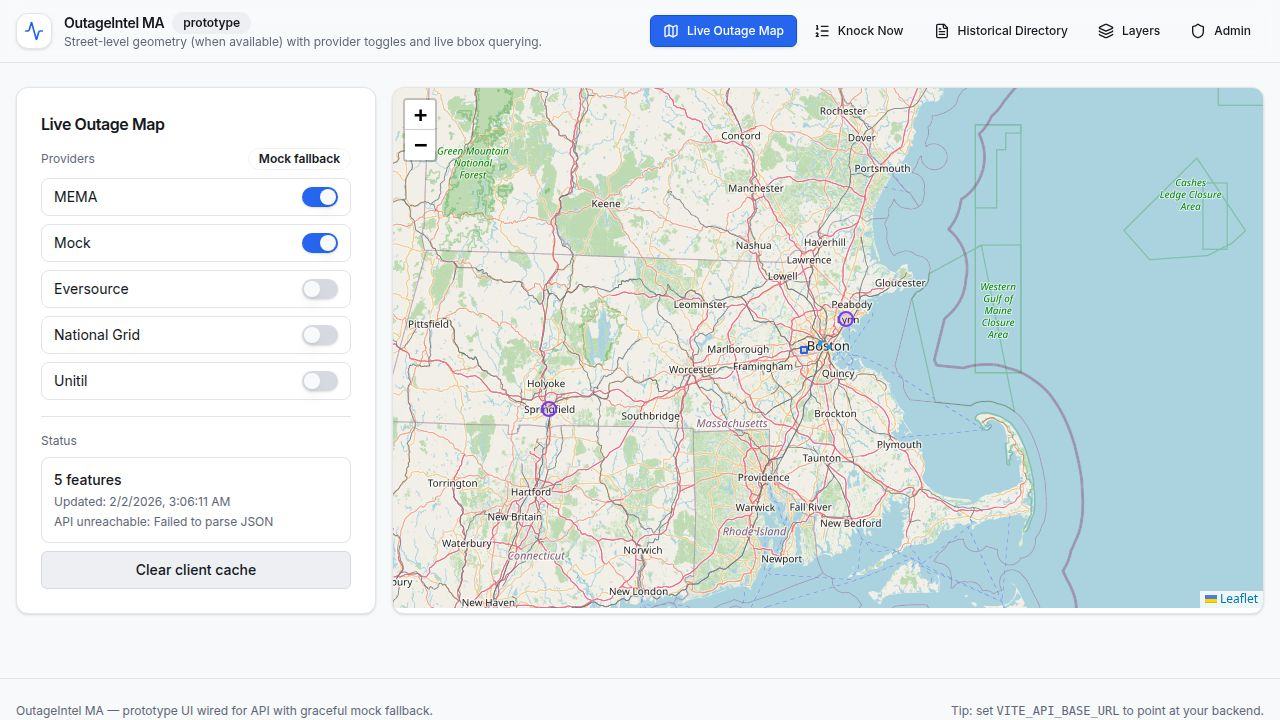
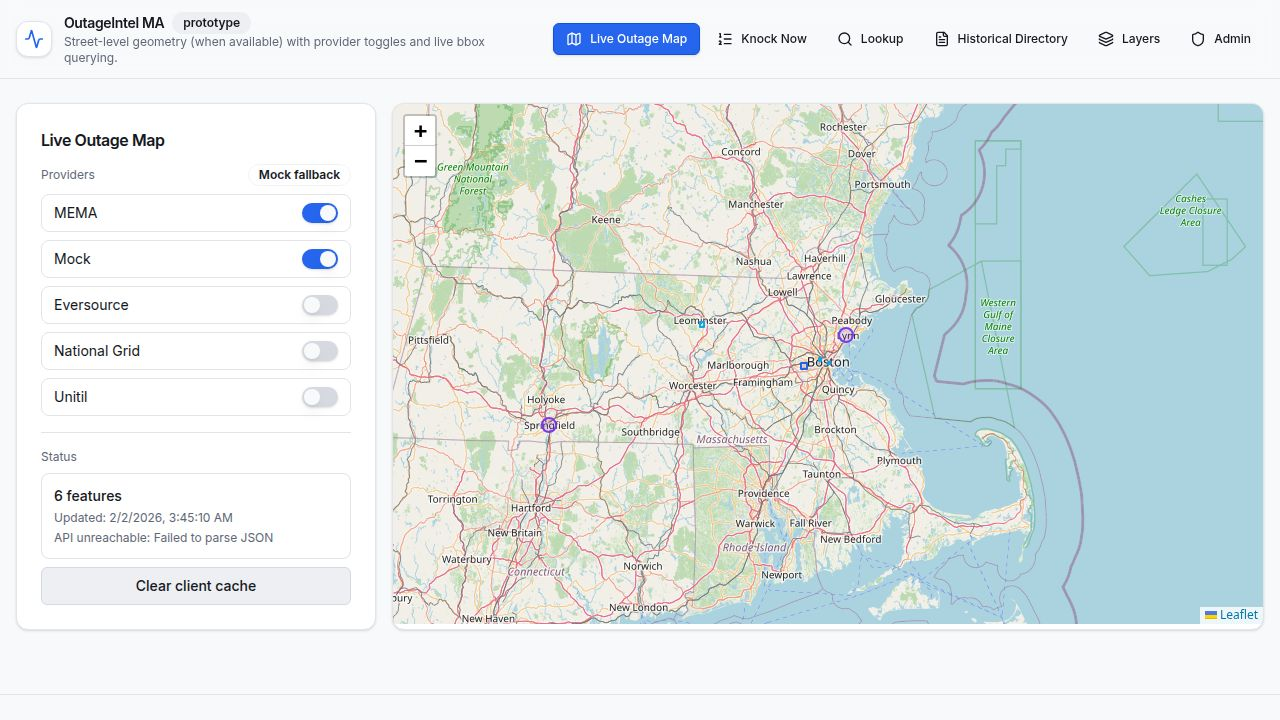
Add a new tool to look up specific location intelligence
Implement a new lookup page for detailed location-based analysis, including historical outage data and risk scores.

Replit-Commit-Author: Agent
Replit-Commit-Session-Id: 7aff651b-e8ea-416d-b6d7-e92ca73b283d
Replit-Commit-Checkpoint-Type: full_checkpoint
Replit-Commit-Event-Id: dbf12451-cbe9-4ebb-b09e-6bf4fc2eb3aa
Replit-Commit-Screenshot-Url: https://storage.googleapis.com/screenshot-production-us-central1/a95e19d0-f1c6-4e05-b318-7d209d38d3a2/7aff651b-e8ea-416d-b6d7-e92ca73b283d/ZiGp4hv
Replit-Helium-Checkpoint-Created: true

diff --git a/client/src/lib/mockData.ts b/client/src/lib/mockData.ts
@@ -404,6 +404,71 @@ export function mockDocuments(q?: string): DocumentsResponse {
       ],
     },
     {
+      id: "nationalgrid-2018",
+      title: "National Grid MA Service Quality Report (2018)",
+      provider: "National Grid",
+      year: 2018,
+      url: "https://www.mass.gov/doc/national-grid-2018-sqr",
+      tags: ["reliability", "saidi", "saifi", "national grid"],
+      snippet: "2018 reliability performance data for Massachusetts electric operations.",
+      metrics: [
+        { type: "SAIDI", value: 108.7, unit: "minutes", year: 2018, territory: "MA" },
+        { type: "SAIFI", value: 1.05, unit: "interruptions", year: 2018, territory: "MA" },
+      ],
+    },
+    {
+      id: "nationalgrid-2017",
+      title: "National Grid MA Service Quality Report (2017)",
+      provider: "National Grid",
+      year: 2017,
+      url: "https://www.mass.gov/doc/national-grid-2017-sqr",
+      tags: ["reliability", "saidi", "saifi", "national grid"],
+      snippet: "2017 reliability performance data for Massachusetts electric operations.",
+      metrics: [
+        { type: "SAIDI", value: 110.2, unit: "minutes", year: 2017, territory: "MA" },
+        { type: "SAIFI", value: 1.12, unit: "interruptions", year: 2017, territory: "MA" },
+      ],
+    },
+    {
+      id: "nationalgrid-2016",
+      title: "National Grid MA Service Quality Report (2016)",
+      provider: "National Grid",
+      year: 2016,
+      url: "https://www.mass.gov/doc/national-grid-2016-sqr",
+      tags: ["reliability", "saidi", "saifi", "national grid"],
+      snippet: "2016 reliability performance data for Massachusetts electric operations.",
+      metrics: [
+        { type: "SAIDI", value: 102.5, unit: "minutes", year: 2016, territory: "MA" },
+        { type: "SAIFI", value: 0.98, unit: "interruptions", year: 2016, territory: "MA" },
+      ],
+    },
+    {
+      id: "nationalgrid-2015",
+      title: "National Grid MA Service Quality Report (2015)",
+      provider: "National Grid",
+      year: 2015,
+      url: "https://www.mass.gov/doc/national-grid-2015-sqr",
+      tags: ["reliability", "saidi", "saifi", "national grid"],
+      snippet: "2015 reliability performance data for Massachusetts electric operations.",
+      metrics: [
+        { type: "SAIDI", value: 114.8, unit: "minutes", year: 2015, territory: "MA" },
+        { type: "SAIFI", value: 1.22, unit: "interruptions", year: 2015, territory: "MA" },
+      ],
+    },
+    {
+      id: "nationalgrid-2014",
+      title: "National Grid MA Service Quality Report (2014)",
+      provider: "National Grid",
+      year: 2014,
+      url: "https://www.mass.gov/doc/national-grid-2014-sqr",
+      tags: ["reliability", "saidi", "saifi", "national grid"],
+      snippet: "2014 reliability performance data for Massachusetts electric operations.",
+      metrics: [
+        { type: "SAIDI", value: 109.1, unit: "minutes", year: 2014, territory: "MA" },
+        { type: "SAIFI", value: 1.15, unit: "interruptions", year: 2014, territory: "MA" },
+      ],
+    },
+    {
       id: "eversource-2023",
       title: "Eversource MA Service Quality Report (2023)",
       provider: "Eversource",
@@ -469,6 +534,71 @@ export function mockDocuments(q?: string): DocumentsResponse {
       ],
     },
     {
+      id: "eversource-2018",
+      title: "Eversource MA Service Quality Report (2018)",
+      provider: "Eversource",
+      year: 2018,
+      url: "https://www.mass.gov/doc/eversource-2018-sqr",
+      tags: ["reliability", "saidi", "saifi", "eversource"],
+      snippet: "2018 reliability metrics for Eversource East and West territories in MA.",
+      metrics: [
+        { type: "SAIDI", value: 92.4, unit: "minutes", year: 2018, territory: "MA" },
+        { type: "SAIFI", value: 1.05, unit: "interruptions", year: 2018, territory: "MA" },
+      ],
+    },
+    {
+      id: "eversource-2017",
+      title: "Eversource MA Service Quality Report (2017)",
+      provider: "Eversource",
+      year: 2017,
+      url: "https://www.mass.gov/doc/eversource-2017-sqr",
+      tags: ["reliability", "saidi", "saifi", "eversource"],
+      snippet: "2017 reliability metrics for Eversource East and West territories in MA.",
+      metrics: [
+        { type: "SAIDI", value: 96.1, unit: "minutes", year: 2017, territory: "MA" },
+        { type: "SAIFI", value: 1.12, unit: "interruptions", year: 2017, territory: "MA" },
+      ],
+    },
+    {
+      id: "eversource-2016",
+      title: "Eversource MA Service Quality Report (2016)",
+      provider: "Eversource",
+      year: 2016,
+      url: "https://www.mass.gov/doc/eversource-2016-sqr",
+      tags: ["reliability", "saidi", "saifi", "eversource"],
+      snippet: "2016 reliability metrics for Eversource East and West territories in MA.",
+      metrics: [
+        { type: "SAIDI", value: 88.4, unit: "minutes", year: 2016, territory: "MA" },
+        { type: "SAIFI", value: 0.95, unit: "interruptions", year: 2016, territory: "MA" },
+      ],
+    },
+    {
+      id: "eversource-2015",
+      title: "Eversource MA Service Quality Report (2015)",
+      provider: "Eversource",
+      year: 2015,
+      url: "https://www.mass.gov/doc/eversource-2015-sqr",
+      tags: ["reliability", "saidi", "saifi", "eversource"],
+      snippet: "2015 reliability metrics for Eversource East and West territories in MA.",
+      metrics: [
+        { type: "SAIDI", value: 94.2, unit: "minutes", year: 2015, territory: "MA" },
+        { type: "SAIFI", value: 1.08, unit: "interruptions", year: 2015, territory: "MA" },
+      ],
+    },
+    {
+      id: "eversource-2014",
+      title: "Eversource MA Service Quality Report (2014)",
+      provider: "Eversource",
+      year: 2014,
+      url: "https://www.mass.gov/doc/eversource-2014-sqr",
+      tags: ["reliability", "saidi", "saifi", "eversource"],
+      snippet: "2014 reliability metrics for Eversource East and West territories in MA.",
+      metrics: [
+        { type: "SAIDI", value: 91.7, unit: "minutes", year: 2014, territory: "MA" },
+        { type: "SAIFI", value: 1.02, unit: "interruptions", year: 2014, territory: "MA" },
+      ],
+    },
+    {
       id: "unitil-2023",
       title: "Unitil MA Service Quality Report (2023)",
       provider: "Unitil",
@@ -531,6 +661,71 @@ export function mockDocuments(q?: string): DocumentsResponse {
       metrics: [
         { type: "SAIDI", value: 142.3, unit: "minutes", year: 2019, territory: "MA" },
         { type: "SAIFI", value: 1.32, unit: "interruptions", year: 2019, territory: "MA" },
+      ],
+    },
+    {
+      id: "unitil-2018",
+      title: "Unitil MA Service Quality Report (2018)",
+      provider: "Unitil",
+      year: 2018,
+      url: "https://www.mass.gov/doc/unitil-2018-sqr",
+      tags: ["reliability", "saidi", "saifi", "unitil"],
+      snippet: "2018 performance metrics for Unitil's Massachusetts service territory.",
+      metrics: [
+        { type: "SAIDI", value: 148.9, unit: "minutes", year: 2018, territory: "MA" },
+        { type: "SAIFI", value: 1.45, unit: "interruptions", year: 2018, territory: "MA" },
+      ],
+    },
+    {
+      id: "unitil-2017",
+      title: "Unitil MA Service Quality Report (2017)",
+      provider: "Unitil",
+      year: 2017,
+      url: "https://www.mass.gov/doc/unitil-2017-sqr",
+      tags: ["reliability", "saidi", "saifi", "unitil"],
+      snippet: "2017 performance metrics for Unitil's Massachusetts service territory.",
+      metrics: [
+        { type: "SAIDI", value: 155.2, unit: "minutes", year: 2017, territory: "MA" },
+        { type: "SAIFI", value: 1.52, unit: "interruptions", year: 2017, territory: "MA" },
+      ],
+    },
+    {
+      id: "unitil-2016",
+      title: "Unitil MA Service Quality Report (2016)",
+      provider: "Unitil",
+      year: 2016,
+      url: "https://www.mass.gov/doc/unitil-2016-sqr",
+      tags: ["reliability", "saidi", "saifi", "unitil"],
+      snippet: "2016 performance metrics for Unitil's Massachusetts service territory.",
+      metrics: [
+        { type: "SAIDI", value: 141.5, unit: "minutes", year: 2016, territory: "MA" },
+        { type: "SAIFI", value: 1.28, unit: "interruptions", year: 2016, territory: "MA" },
+      ],
+    },
+    {
+      id: "unitil-2015",
+      title: "Unitil MA Service Quality Report (2015)",
+      provider: "Unitil",
+      year: 2015,
+      url: "https://www.mass.gov/doc/unitil-2015-sqr",
+      tags: ["reliability", "saidi", "saifi", "unitil"],
+      snippet: "2015 performance metrics for Unitil's Massachusetts service territory.",
+      metrics: [
+        { type: "SAIDI", value: 158.4, unit: "minutes", year: 2015, territory: "MA" },
+        { type: "SAIFI", value: 1.45, unit: "interruptions", year: 2015, territory: "MA" },
+      ],
+    },
+    {
+      id: "unitil-2014",
+      title: "Unitil MA Service Quality Report (2014)",
+      provider: "Unitil",
+      year: 2014,
+      url: "https://www.mass.gov/doc/unitil-2014-sqr",
+      tags: ["reliability", "saidi", "saifi", "unitil"],
+      snippet: "2014 performance metrics for Unitil's Massachusetts service territory.",
+      metrics: [
+        { type: "SAIDI", value: 149.2, unit: "minutes", year: 2014, territory: "MA" },
+        { type: "SAIFI", value: 1.38, unit: "interruptions", year: 2014, territory: "MA" },
       ],
     },
     {

diff --git a/client/src/pages/lookup.tsx b/client/src/pages/lookup.tsx
@@ -1,0 +1,133 @@
+import { useState, useMemo } from "react";
+import { AppShell } from "@/components/AppShell";
+import { Card, CardContent, CardHeader, CardTitle } from "@/components/ui/card";
+import { Input } from "@/components/ui/input";
+import { Button } from "@/components/ui/button";
+import { Search, MapPin, History, Info } from "lucide-react";
+import { Badge } from "@/components/ui/badge";
+import { Separator } from "@/components/ui/separator";
+import { mockScores } from "@/lib/mockData";
+
+export default function LookupPage() {
+  const [query, setQuery] = useState("");
+  const [searching, setSearching] = useState(false);
+  const [results, setResults] = useState<any[]>([]);
+
+  const handleSearch = () => {
+    if (!query.trim()) return;
+    setSearching(true);
+    // Simulate lookup across historical datasets
+    setTimeout(() => {
+      const scores = mockScores("30d");
+      setResults(scores.cells.slice(0, 3).map((c, i) => ({
+        ...c,
+        address: i === 0 ? "123 Main St, Worcester, MA" : i === 1 ? "45 High St, Springfield, MA" : "89 Oak Ave, Pittsfield, MA",
+        history: [
+          { date: "2023-12-14", duration: "142 min", cause: "Equipment Failure" },
+          { date: "2023-08-22", duration: "89 min", cause: "Severe Weather" },
+          { date: "2022-11-05", duration: "210 min", cause: "Tree Down" },
+        ]
+      })));
+      setSearching(false);
+    }, 600);
+  };
+
+  return (
+    <AppShell subtitle="Deep lookup for specific streets, areas, or coordinates.">
+      <div className="grid gap-6">
+        <Card className="border-primary/20 shadow-lg">
+          <CardHeader>
+            <CardTitle className="text-xl flex items-center gap-2">
+              <Search className="h-5 w-5 text-primary" />
+              Location Intelligence Lookup
+            </CardTitle>
+          </CardHeader>
+          <CardContent>
+            <div className="flex gap-2">
+              <div className="relative flex-1">
+                <Search className="absolute left-3 top-3 h-4 w-4 text-muted-foreground" />
+                <Input
+                  placeholder="Search street, town, or H3 cell..."
+                  className="pl-10"
+                  value={query}
+                  onChange={(e) => setQuery(e.target.value)}
+                  onKeyDown={(e) => e.key === 'Enter' && handleSearch()}
+                  data-testid="input-lookup-search"
+                />
+              </div>
+              <Button onClick={handleSearch} disabled={searching} data-testid="button-lookup-submit">
+                {searching ? "Searching..." : "Lookup"}
+              </Button>
+            </div>
+            <div className="mt-2 text-xs text-muted-foreground">
+              Example: "Worcester", "Main Street", or "892a10d0b7fffff"
+            </div>
+          </CardContent>
+        </Card>
+
+        {results.length > 0 ? (
+          <div className="grid gap-4 md:grid-cols-2 lg:grid-cols-3">
+            {results.map((r, i) => (
+              <Card key={i} className="overflow-hidden border-muted hover:border-primary/50 transition-colors">
+                <CardHeader className="bg-muted/30 pb-3">
+                  <div className="flex items-start justify-between">
+                    <div className="flex items-center gap-2">
+                      <MapPin className="h-4 w-4 text-primary" />
+                      <CardTitle className="text-sm font-semibold">{r.address}</CardTitle>
+                    </div>
+                    <Badge variant="outline" className="font-mono text-[10px]">{r.h3}</Badge>
+                  </div>
+                </CardHeader>
+                <CardContent className="pt-4 grid gap-4">
+                  <div className="grid grid-cols-2 gap-2">
+                    <div className="rounded-lg border bg-card p-2 text-center">
+                      <div className="text-[10px] uppercase text-muted-foreground font-semibold">Risk Score</div>
+                      <div className="text-lg font-bold text-primary">{(r.score * 100).toFixed(0)}</div>
+                    </div>
+                    <div className="rounded-lg border bg-card p-2 text-center">
+                      <div className="text-[10px] uppercase text-muted-foreground font-semibold">Reliability</div>
+                      <div className="text-lg font-bold">Top 15%</div>
+                    </div>
+                  </div>
+
+                  <Separator />
+
+                  <div className="grid gap-2">
+                    <div className="text-xs font-semibold flex items-center gap-1">
+                      <History className="h-3 w-3" />
+                      Recent Outage Events
+                    </div>
+                    <div className="grid gap-2">
+                      {r.history.map((h: any, j: number) => (
+                        <div key={j} className="text-xs flex items-center justify-between p-2 rounded bg-muted/50">
+                          <span className="text-muted-foreground">{h.date}</span>
+                          <span className="font-medium">{h.duration}</span>
+                        </div>
+                      ))}
+                    </div>
+                  </div>
+
+                  <Separator />
+
+                  <div className="grid gap-1">
+                    <div className="text-xs font-semibold flex items-center gap-1">
+                      <Info className="h-3 w-3" />
+                      Context
+                    </div>
+                    <div className="text-xs text-muted-foreground">
+                      {r.top_reasons[0]}
+                    </div>
+                  </div>
+                </CardContent>
+              </Card>
+            ))}
+          </div>
+        ) : !searching && query ? (
+          <div className="py-12 text-center text-muted-foreground">
+            No detailed results for "{query}" yet. Try searching by town name.
+          </div>
+        ) : null}
+      </div>
+    </AppShell>
+  );
+}

diff --git a/client/src/App.tsx b/client/src/App.tsx
@@ -7,6 +7,7 @@ import NotFound from "@/pages/not-found";
 
 import LiveMapPage from "@/pages/live-map";
 import RankingsPage from "@/pages/rankings";
+import LookupPage from "@/pages/lookup";
 import DocumentsPage from "@/pages/documents";
 import LayersPage from "@/pages/layers";
 import AdminPage from "@/pages/admin";
@@ -16,6 +17,7 @@ function Router() {
     <Switch>
       <Route path="/" component={LiveMapPage} />
       <Route path="/rankings" component={RankingsPage} />
+      <Route path="/lookup" component={LookupPage} />
       <Route path="/documents" component={DocumentsPage} />
       <Route path="/layers" component={LayersPage} />
       <Route path="/admin" component={AdminPage} />

diff --git a/client/src/components/AppShell.tsx b/client/src/components/AppShell.tsx
@@ -10,11 +10,13 @@ import {
   Map,
   FileText,
   Shield,
+  Search,
 } from "lucide-react";
 
 const nav = [
   { href: "/", label: "Live Outage Map", icon: Map, testId: "link-nav-map" },
   { href: "/rankings", label: "Knock Now", icon: ListOrdered, testId: "link-nav-rankings" },
+  { href: "/lookup", label: "Lookup", icon: Search, testId: "link-nav-lookup" },
   { href: "/documents", label: "Historical Directory", icon: FileText, testId: "link-nav-docs" },
   { href: "/layers", label: "Layers", icon: Layers, testId: "link-nav-layers" },
   { href: "/admin", label: "Admin", icon: Shield, testId: "link-nav-admin" },
